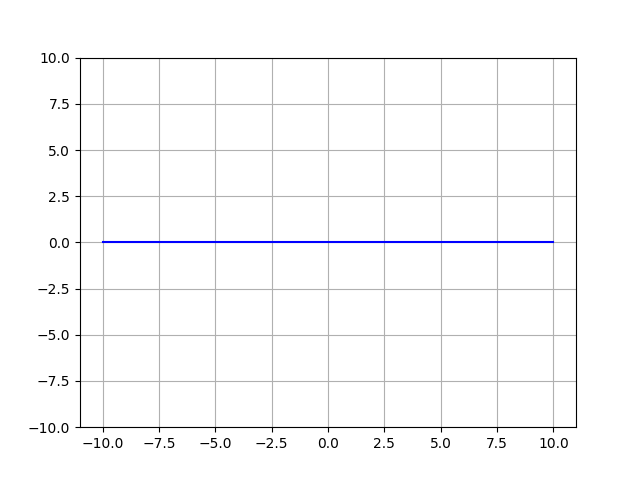
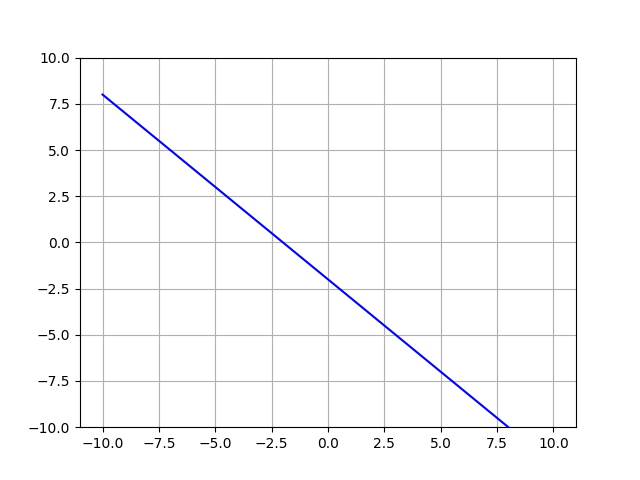
packaged the project, rearranged the concept so actions are consequently added

diff --git a/graph_engineering/models/visual.py b/graph_engineering/models/visual.py
@@ -1,3 +1,5 @@
+from . import actions
+
 import matplotlib.pyplot as plt
 import numpy as np
 from PyQt6.QtGui import QPixmap
@@ -11,41 +13,26 @@ from PyQt6.QtWidgets import (
     QWidget,
 )
 
-from . import graphs
-
-
-graph_actions = dict(sorted({"Linear": ["scale", "move"]}.items()))
-
 
 class MainWindow(QMainWindow):
 
     def __init__(self, graph_actions: dict[str, list[str]]) -> None:
 
         super().__init__()
+        self.showMaximized()
 
         self.setWindowTitle("Widgets App")
 
         layout = QVBoxLayout()
         widget = QWidget()
 
-        self.graph = graphs.BaseGraph()
-
-        graph_holder = QLabel(self)
-        self.graph_holder = graph_holder
-        graph_list = QListWidget(self)
-        for graph_kind in graph_actions:
-            item = QListWidgetItem(graph_list)
-            item.setText(graph_kind)
-
-        def change_graph(graph_item: QListWidgetItem):
-            self.graph = eval(f"graphs.{graph_item.text()}")()
-            self.action_list.clear()
-            for action in graph_actions[self.graph.__class__.__qualname__]:
-                item = QListWidgetItem(self.action_list)
-                item.setText(action)
-            self.update_graph(1000, -10, 10)
-        graph_list.itemClicked.connect(change_graph)
-        layout.addWidget(graph_list)
+        self.function = actions.Function([actions.linear])
+        self.graph_holder = QLabel()
+        self.added_actions_list = QListWidget()
+        self.all_actions_list = QListWidget()
+        for action in graph_actions:
+            action_item = QListWidgetItem(self.all_actions_list)
+            action_item.setText(action)
 
 
         self.input_getter: QLineEdit | None = None
@@ -56,7 +43,7 @@ class MainWindow(QMainWindow):
                 layout.removeWidget(self.input_getter)
             self.input_getter = QLineEdit(parent=self)
             self.input_getter.setPlaceholderText("Type float value")
-            def make_action():
+            def add_action():
                 # isdigit() returns False if encounters minus
                 if not self.input_getter.text().replace('-','').isdigit():
                     self.input_getter.clear()
@@ -65,31 +52,36 @@ class MainWindow(QMainWindow):
                         )
                     return
                 
-                getattr(self.graph, action_item.text())(float(self.input_getter.text()))
+                self.function.add_func(eval(f"actions.{action_item.text()}"), (float(self.input_getter.text())))
+                total_rows = self.added_actions_list.currentRow()
+
+                new_action_item = QListWidgetItem(self.added_actions_list)
+                new_action_item.setText(f"{action_item.text()} {self.input_getter.text()}")
+                self.added_actions_list.insertItem(total_rows, new_action_item)
+
                 self.update_graph(1000, -10, 10)
                 layout.removeWidget(self.input_getter)
                 self.input_getter.deleteLater()
                 self.input_getter = None
-            self.input_getter.returnPressed.connect(make_action)
+
+            self.input_getter.returnPressed.connect(add_action)
             layout.addWidget(self.input_getter)
             self.show()
-        self.action_list = QListWidget(self)
-        self.action_list.itemClicked.connect(select_action)
-        layout.addWidget(self.action_list)
-        
 
-        layout.addWidget(graph_holder)
+
+        self.all_actions_list.itemClicked.connect(select_action)
+        layout.addWidget(self.added_actions_list)
+        layout.addWidget(self.all_actions_list)
+        layout.addWidget(self.graph_holder)
         widget.setLayout(layout)
 
-        # Устанавливаем центральный виджет окна. Виджет будет расширяться по умолчанию,
-        # заполняя всё пространство окна.
-        self.setCentralWidget(widget)
         self.update_graph(1000, -10, 10)
+        self.setCentralWidget(widget)
 
 
     def update_graph(self, fs: int, start_x: int, end_x: int):
         x = np.linspace(start=start_x, stop=end_x, num=fs)
-        y = self.graph.f(x)
+        y = self.function(x)
         # preserve scale
         plt.clf()
         plt.ylim(start_x, end_x)

diff --git a/graph_engineering/models/actions.py b/graph_engineering/models/actions.py
@@ -1,0 +1,45 @@
+from graph_engineering.utils.utils import chain_functions
+
+from functools import partial
+import typing
+
+import numpy as np
+
+
+actions = ["scale", "shift"]
+
+
+class Function:
+
+    def __init__(self, functions: list[typing.Callable] = []):
+
+        self.functions = functions
+        if len(functions) > 1:
+            chained = chain_functions(*functions) # type: ignore[arg-type]
+        else:
+            chained = functions[0]
+        self.f = np.vectorize(chained) 
+
+    #TODO: don't reassign chained from ground up for every adding
+    def add_func(self, function: typing.Callable, parameter: float):
+        self.functions.append(partial(function, parameter))
+        self.f = np.vectorize(chain_functions(*self.functions)) # type: ignore[arg-type]
+
+    
+    def __call__(self, x: np.ndarray):
+
+        if not self.functions:
+            raise ValueError("Functions missing!")
+        return self.f(x)
+    
+
+def scale(x: float, k: float):
+    return x * k
+
+
+def shift(x: float, b: float):
+    return x + b
+
+
+def linear(x: float):
+    return x

diff --git a/graph_engineering/main.py b/graph_engineering/main.py
@@ -1,15 +1,13 @@
-# TODO: switch to PyQt6
-
 import sys
 
-from models import graphs, visual
+from models import actions, visual # type: ignore[import-not-found]
 
 from PyQt6.QtWidgets import QApplication
 
 
 if __name__ == "__main__":
     app = QApplication(sys.argv)
-    window = visual.MainWindow(graphs.graph_actions)
+    window = visual.MainWindow(actions.actions)
     window.show()
 
     app.exec()

diff --git a/graph_engineering/utils/utils.py b/graph_engineering/utils/utils.py
@@ -1,0 +1,12 @@
+import typing
+
+def chain_functions(*functions: list[typing.Callable]) -> typing.Callable:
+
+    def chained(*args, **kwargs):
+        for function in functions:
+            if not isinstance(args, tuple):
+                args = [args]
+            args = function(*args, **kwargs)
+        return args
+    
+    return chained
